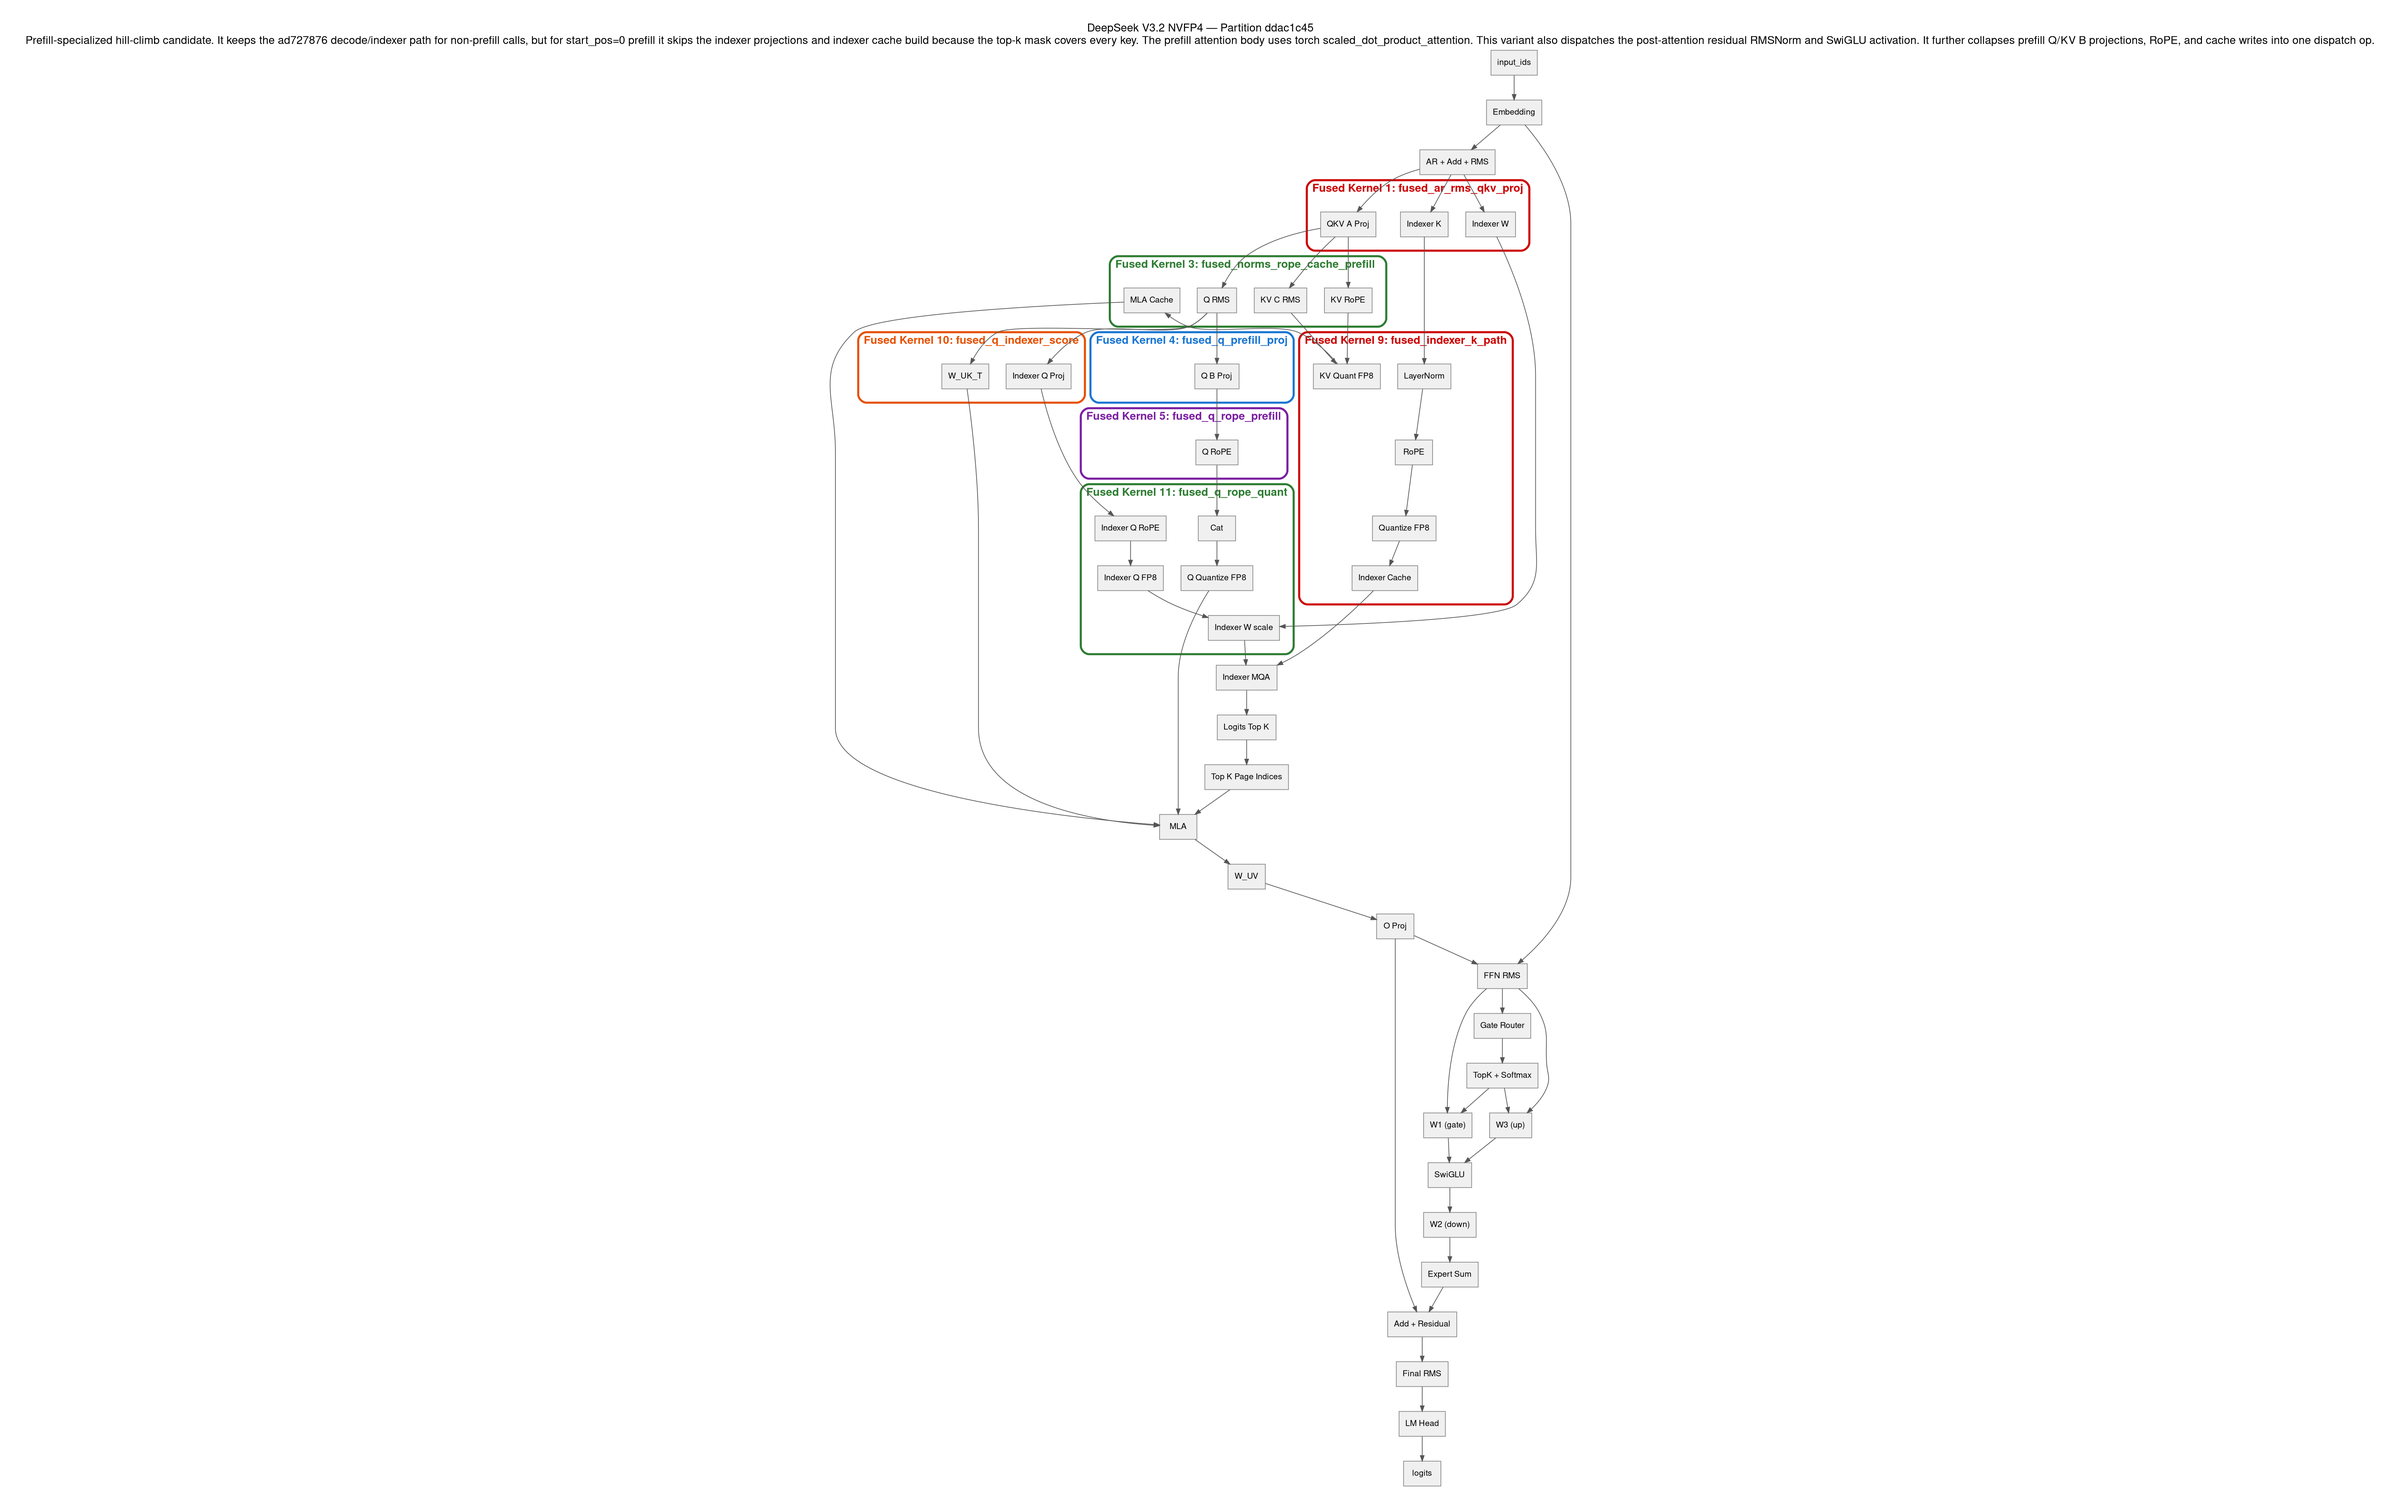
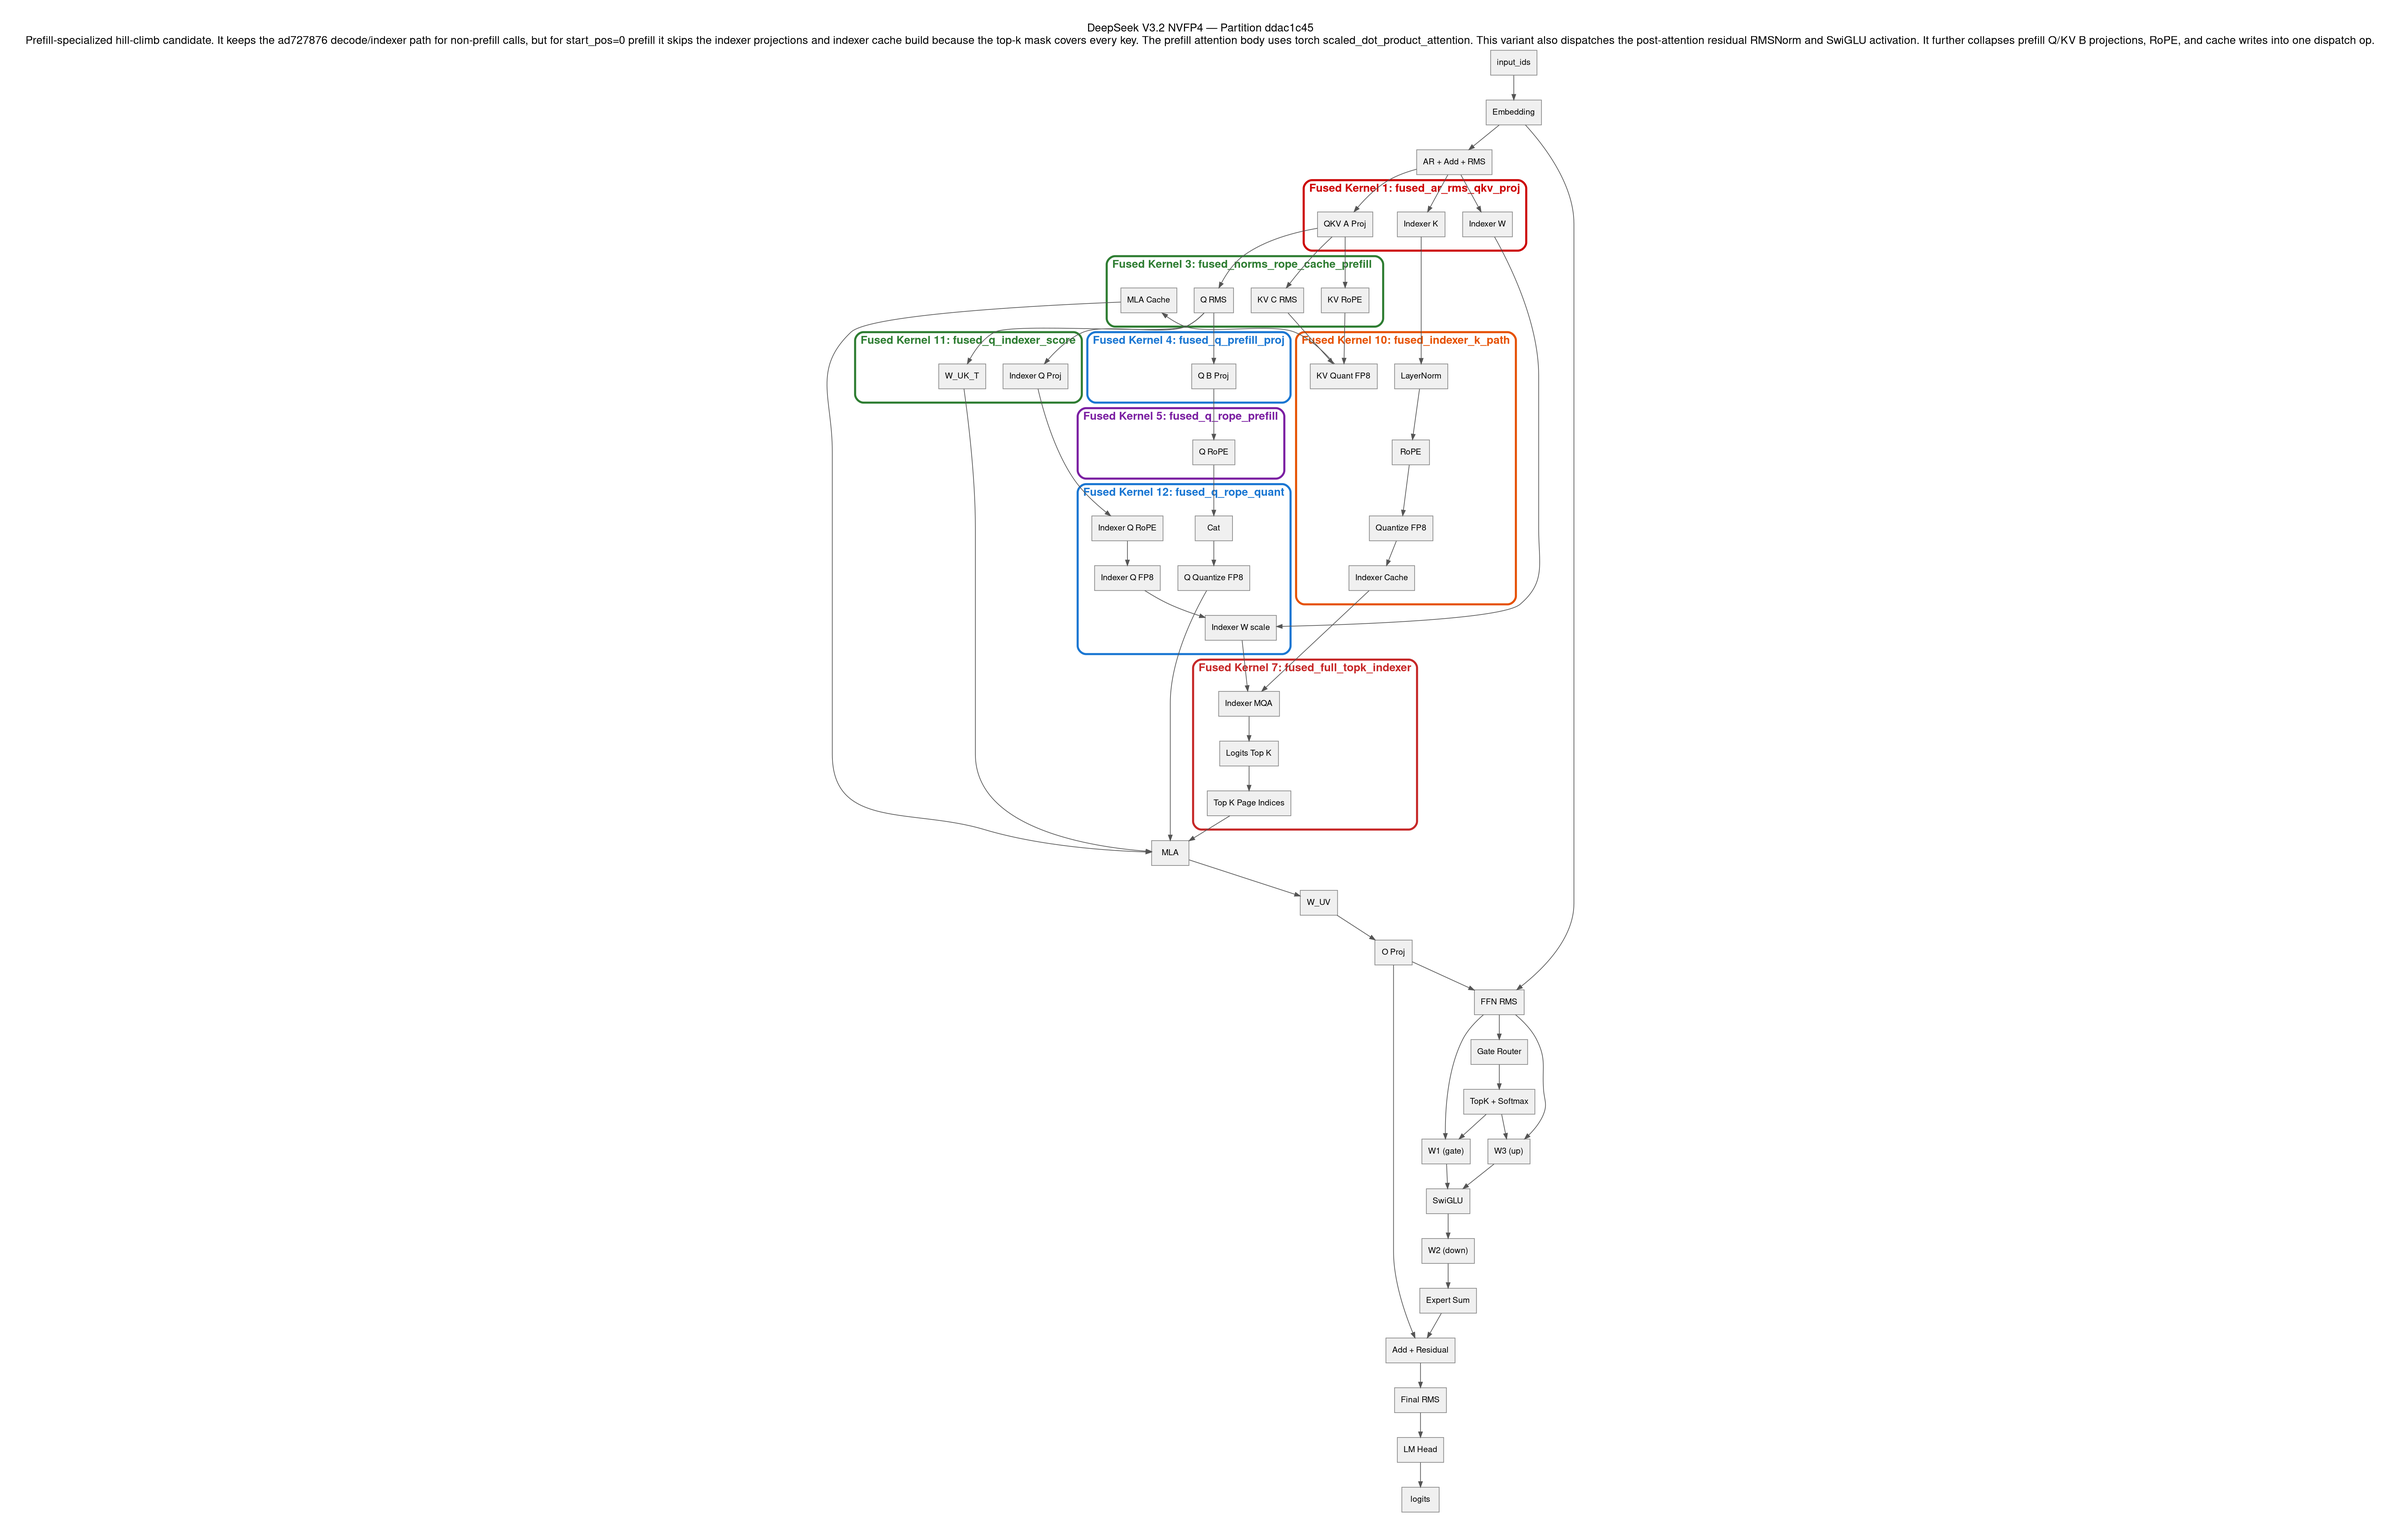
Hill climb nvfp4 full-topk indexer

diff --git a/partitions/dsv3_2_nvfp4/cd91301b/kernels/triton/indexer_full_topk.py b/partitions/dsv3_2_nvfp4/cd91301b/kernels/triton/indexer_full_topk.py
@@ -1,0 +1,81 @@
+from __future__ import annotations
+
+import torch
+
+try:
+    import triton  # noqa: F401
+
+    BACKEND_AVAILABLE = True
+except Exception:
+    BACKEND_AVAILABLE = False
+
+
+def fused_full_topk_indexer(
+    indexer,
+    x: torch.Tensor,
+    qr: torch.Tensor,
+    start_pos: int,
+    freqs_cis: torch.Tensor,
+    mask: torch.Tensor | None,
+    *,
+    fallback,
+) -> torch.Tensor:
+    bsz, seqlen, _ = x.size()
+    end_pos = start_pos + seqlen
+    if start_pos == 0:
+        indexer._racetrack_pending_full_topk = []
+    elif not hasattr(indexer, "_racetrack_pending_full_topk"):
+        indexer._racetrack_pending_full_topk = []
+    if end_pos > indexer.index_topk:
+        _flush_pending_full_topk(indexer)
+        return fallback(indexer, x, qr, start_pos, freqs_cis, mask)
+
+    indexer._racetrack_pending_full_topk.append((start_pos, x, freqs_cis))
+    return torch.arange(
+        end_pos,
+        device=x.device,
+        dtype=torch.long,
+    ).view(1, 1, end_pos).expand(bsz, seqlen, end_pos).contiguous()
+
+
+def _flush_pending_full_topk(indexer) -> None:
+    pending = getattr(indexer, "_racetrack_pending_full_topk", [])
+    if not pending:
+        return
+    for start_pos, x, freqs_cis in pending:
+        _write_indexer_k_cache(indexer, x, start_pos, freqs_cis)
+    pending.clear()
+
+
+def _write_indexer_k_cache(
+    indexer,
+    x: torch.Tensor,
+    start_pos: int,
+    freqs_cis: torch.Tensor,
+) -> None:
+    bsz, seqlen, _ = x.size()
+    end_pos = start_pos + seqlen
+
+    from inference import model as real_model
+
+    k = indexer.wk(x)
+    k = indexer.k_norm(k)
+    k_pe, k_nope = torch.split(
+        k,
+        [indexer.rope_head_dim, indexer.head_dim - indexer.rope_head_dim],
+        dim=-1,
+    )
+    k_pe = real_model.apply_rotary_emb(
+        k_pe.unsqueeze(2),
+        freqs_cis,
+        False,
+    ).squeeze(2)
+    k = torch.cat([k_pe, k_nope], dim=-1)
+    k = real_model.rotate_activation(k)
+    k_fp8, k_scale = real_model.act_quant(
+        k,
+        real_model.block_size,
+        indexer.scale_fmt,
+    )
+    indexer.k_cache[:bsz, start_pos:end_pos] = k_fp8
+    indexer.k_scale_cache[:bsz, start_pos:end_pos] = k_scale

diff --git a/partitions/dsv3_2_nvfp4/ddac1c45/kernels/triton/indexer_full_topk.py b/partitions/dsv3_2_nvfp4/ddac1c45/kernels/triton/indexer_full_topk.py
@@ -1,0 +1,81 @@
+from __future__ import annotations
+
+import torch
+
+try:
+    import triton  # noqa: F401
+
+    BACKEND_AVAILABLE = True
+except Exception:
+    BACKEND_AVAILABLE = False
+
+
+def fused_full_topk_indexer(
+    indexer,
+    x: torch.Tensor,
+    qr: torch.Tensor,
+    start_pos: int,
+    freqs_cis: torch.Tensor,
+    mask: torch.Tensor | None,
+    *,
+    fallback,
+) -> torch.Tensor:
+    bsz, seqlen, _ = x.size()
+    end_pos = start_pos + seqlen
+    if start_pos == 0:
+        indexer._racetrack_pending_full_topk = []
+    elif not hasattr(indexer, "_racetrack_pending_full_topk"):
+        indexer._racetrack_pending_full_topk = []
+    if end_pos > indexer.index_topk:
+        _flush_pending_full_topk(indexer)
+        return fallback(indexer, x, qr, start_pos, freqs_cis, mask)
+
+    indexer._racetrack_pending_full_topk.append((start_pos, x, freqs_cis))
+    return torch.arange(
+        end_pos,
+        device=x.device,
+        dtype=torch.long,
+    ).view(1, 1, end_pos).expand(bsz, seqlen, end_pos).contiguous()
+
+
+def _flush_pending_full_topk(indexer) -> None:
+    pending = getattr(indexer, "_racetrack_pending_full_topk", [])
+    if not pending:
+        return
+    for start_pos, x, freqs_cis in pending:
+        _write_indexer_k_cache(indexer, x, start_pos, freqs_cis)
+    pending.clear()
+
+
+def _write_indexer_k_cache(
+    indexer,
+    x: torch.Tensor,
+    start_pos: int,
+    freqs_cis: torch.Tensor,
+) -> None:
+    bsz, seqlen, _ = x.size()
+    end_pos = start_pos + seqlen
+
+    from inference import model as real_model
+
+    k = indexer.wk(x)
+    k = indexer.k_norm(k)
+    k_pe, k_nope = torch.split(
+        k,
+        [indexer.rope_head_dim, indexer.head_dim - indexer.rope_head_dim],
+        dim=-1,
+    )
+    k_pe = real_model.apply_rotary_emb(
+        k_pe.unsqueeze(2),
+        freqs_cis,
+        False,
+    ).squeeze(2)
+    k = torch.cat([k_pe, k_nope], dim=-1)
+    k = real_model.rotate_activation(k)
+    k_fp8, k_scale = real_model.act_quant(
+        k,
+        real_model.block_size,
+        indexer.scale_fmt,
+    )
+    indexer.k_cache[:bsz, start_pos:end_pos] = k_fp8
+    indexer.k_scale_cache[:bsz, start_pos:end_pos] = k_scale

diff --git a/partitions/dsv3_2_nvfp4/f1bdaa6e/kernels/triton/indexer_full_topk.py b/partitions/dsv3_2_nvfp4/f1bdaa6e/kernels/triton/indexer_full_topk.py
@@ -1,0 +1,81 @@
+from __future__ import annotations
+
+import torch
+
+try:
+    import triton  # noqa: F401
+
+    BACKEND_AVAILABLE = True
+except Exception:
+    BACKEND_AVAILABLE = False
+
+
+def fused_full_topk_indexer(
+    indexer,
+    x: torch.Tensor,
+    qr: torch.Tensor,
+    start_pos: int,
+    freqs_cis: torch.Tensor,
+    mask: torch.Tensor | None,
+    *,
+    fallback,
+) -> torch.Tensor:
+    bsz, seqlen, _ = x.size()
+    end_pos = start_pos + seqlen
+    if start_pos == 0:
+        indexer._racetrack_pending_full_topk = []
+    elif not hasattr(indexer, "_racetrack_pending_full_topk"):
+        indexer._racetrack_pending_full_topk = []
+    if end_pos > indexer.index_topk:
+        _flush_pending_full_topk(indexer)
+        return fallback(indexer, x, qr, start_pos, freqs_cis, mask)
+
+    indexer._racetrack_pending_full_topk.append((start_pos, x, freqs_cis))
+    return torch.arange(
+        end_pos,
+        device=x.device,
+        dtype=torch.long,
+    ).view(1, 1, end_pos).expand(bsz, seqlen, end_pos).contiguous()
+
+
+def _flush_pending_full_topk(indexer) -> None:
+    pending = getattr(indexer, "_racetrack_pending_full_topk", [])
+    if not pending:
+        return
+    for start_pos, x, freqs_cis in pending:
+        _write_indexer_k_cache(indexer, x, start_pos, freqs_cis)
+    pending.clear()
+
+
+def _write_indexer_k_cache(
+    indexer,
+    x: torch.Tensor,
+    start_pos: int,
+    freqs_cis: torch.Tensor,
+) -> None:
+    bsz, seqlen, _ = x.size()
+    end_pos = start_pos + seqlen
+
+    from inference import model as real_model
+
+    k = indexer.wk(x)
+    k = indexer.k_norm(k)
+    k_pe, k_nope = torch.split(
+        k,
+        [indexer.rope_head_dim, indexer.head_dim - indexer.rope_head_dim],
+        dim=-1,
+    )
+    k_pe = real_model.apply_rotary_emb(
+        k_pe.unsqueeze(2),
+        freqs_cis,
+        False,
+    ).squeeze(2)
+    k = torch.cat([k_pe, k_nope], dim=-1)
+    k = real_model.rotate_activation(k)
+    k_fp8, k_scale = real_model.act_quant(
+        k,
+        real_model.block_size,
+        indexer.scale_fmt,
+    )
+    indexer.k_cache[:bsz, start_pos:end_pos] = k_fp8
+    indexer.k_scale_cache[:bsz, start_pos:end_pos] = k_scale

diff --git a/tests/test_gsm8k_real_kernels.py b/tests/test_gsm8k_real_kernels.py
@@ -183,6 +183,21 @@ def test_dsv3_2_real_rows_skip_helion_until_full_model_configs_exist() -> None:
     )
 
 
+def test_dsv3_2_nvfp4_real_rows_include_full_topk_indexer() -> None:
+    rows = discover_real_kernel_rows(
+        partition_model="dsv3_2_nvfp4",
+        partition_filter="cd91301b",
+        backend_filter="triton",
+    )
+
+    row = next(row for row in rows if row.partition == "cd91301b")
+    assert row.ops == (
+        "fused_full_topk_indexer",
+        "fused_residual_norm",
+        "fused_swiglu",
+    )
+
+
 def test_dsv3_2_best_ignores_cached_disabled_backend(tmp_path) -> None:
     triton_dir = tmp_path / "kernels" / "triton"
     helion_dir = tmp_path / "kernels" / "helion"

diff --git a/partitions/dsv3_2_nvfp4/cd91301b/model.py b/partitions/dsv3_2_nvfp4/cd91301b/model.py
@@ -35,6 +35,7 @@ FUSED_OP_GRAPH = {
     "fused_q_prefill_proj": ["q_b_proj"],
     "fused_q_rope_prefill": ["q_rope"],
     "fused_prefill_qkv_b_rope_cache": ["q_rms", "q_b_proj", "q_rope", "kv_c_rms", "kv_b_proj", "kv_rope", "mla_cache"],
+    "fused_full_topk_indexer": ["indexer_mqa", "logits_topk", "topk_page_idx"],
     "fused_residual_norm": ["attn_residual_add", "ffn_rms"],
     "fused_swiglu": ["ffn_silu", "ffn_gate_up_mul"],
     "fused_indexer_k_path": ["kv_c_rms", "kv_rope", "kv_quant_fp8", "mla_cache", "q_rms", "indexer_ln", "indexer_rope", "indexer_quant_fp8", "indexer_cache"],

diff --git a/partitions/dsv3_2_nvfp4/ddac1c45/model.py b/partitions/dsv3_2_nvfp4/ddac1c45/model.py
@@ -33,6 +33,7 @@ FUSED_OP_GRAPH = {
     "fused_q_prefill_proj": ["q_b_proj"],
     "fused_q_rope_prefill": ["q_rope"],
     "fused_prefill_qkv_b_rope_cache": ["q_rms", "q_b_proj", "q_rope", "kv_c_rms", "kv_b_proj", "kv_rope", "mla_cache"],
+    "fused_full_topk_indexer": ["indexer_mqa", "logits_topk", "topk_page_idx"],
     "fused_residual_norm": ["attn_residual_add", "ffn_rms"],
     "fused_swiglu": ["ffn_silu", "ffn_gate_up_mul"],
     "fused_indexer_k_path": ["kv_c_rms", "kv_rope", "kv_quant_fp8", "mla_cache", "q_rms", "indexer_ln", "indexer_rope", "indexer_quant_fp8", "indexer_cache"],

diff --git a/partitions/dsv3_2_nvfp4/f1bdaa6e/model.py b/partitions/dsv3_2_nvfp4/f1bdaa6e/model.py
@@ -30,6 +30,7 @@ FUSED_OP_GRAPH = {
     "fused_norms_rope_cache_prefill": ["q_rms", "kv_c_rms", "kv_rope", "mla_cache"],
     "fused_q_prefill_proj": ["q_b_proj"],
     "fused_q_rope_prefill": ["q_rope"],
+    "fused_full_topk_indexer": ["indexer_mqa", "logits_topk", "topk_page_idx"],
     "fused_residual_norm": ["attn_residual_add", "ffn_rms"],
     "fused_swiglu": ["ffn_silu", "ffn_gate_up_mul"],
     "fused_indexer_k_path": ["kv_c_rms", "kv_rope", "kv_quant_fp8", "mla_cache", "q_rms", "indexer_ln", "indexer_rope", "indexer_quant_fp8", "indexer_cache"],

diff --git a/benchmarks/gsm8k/results/dsv3_2_nvfp4/8xh100.md b/benchmarks/gsm8k/results/dsv3_2_nvfp4/8xh100.md
@@ -8,31 +8,31 @@
 **PyTorch**: 2.13.0a0+git0a0fcd7
 **Samples**: 1
 **Max new tokens**: 4096
-**Date**: 2026-05-15T15:07:54.539753+00:00
+**Date**: 2026-05-15T19:52:45.898580+00:00
 **Validation**: extracted numerical answers are compared with `baseline/torch`; `max diff` is the maximum absolute extracted-answer difference.
 
 ## Winner
 
-**cd91301b/triton** (1.205x vs baseline)
-Aggregate: 44529.6ms
+**ddac1c45/triton** (1.489x vs baseline)
+Aggregate: 35506.2ms
 
 ## Leaderboard
 
 | # | partition | backend | total (ms) | vs baseline | validation | max diff |
 |---|---|---|---|---|---|---|
-| 1 | cd91301b | triton | 44529.6 | 1.205x | pass | 0.000e+00 |
-| 2 | ddac1c45 | triton | 44539.5 | 1.205x | pass | 0.000e+00 |
-| 3 | f1bdaa6e | triton | 44731.5 | 1.199x | pass | 0.000e+00 |
-| 4 | cd91301b | best (fused_residual_norm=triton, fused_swiglu=triton) | 44990.5 | 1.192x | pass | 0.000e+00 |
-| 5 | ddac1c45 | best (fused_residual_norm=triton, fused_swiglu=triton) | 44997.8 | 1.192x | pass | 0.000e+00 |
-| 6 | f1bdaa6e | best (fused_residual_norm=triton, fused_swiglu=triton) | 45012.8 | 1.192x | pass | 0.000e+00 |
-| 7 | ddac1c45 | cutedsl | 46641.9 | 1.150x | pass | 0.000e+00 |
-| 8 | f1bdaa6e | cutedsl | 46711.3 | 1.149x | pass | 0.000e+00 |
-| 9 | f1bdaa6e | helion | 46714.2 | 1.148x | pass | 0.000e+00 |
-| 10 | cd91301b | cutedsl | 46728.4 | 1.148x | pass | 0.000e+00 |
-| 11 | ddac1c45 | helion | 46894.7 | 1.144x | pass | 0.000e+00 |
-| 12 | cd91301b | helion | 47018.9 | 1.141x | pass | 0.000e+00 |
-| 13 | baseline | torch | 53649.0 | 1.000x | pass | 0.000e+00 |
+| 1 | ddac1c45 | triton | 35506.2 | 1.489x | pass | 0.000e+00 |
+| 2 | cd91301b | triton | 35533.3 | 1.488x | pass | 0.000e+00 |
+| 3 | cd91301b | best (fused_full_topk_indexer=triton, fused_residual_norm=triton, fused_swiglu=triton) | 35536.9 | 1.488x | pass | 0.000e+00 |
+| 4 | f1bdaa6e | best (fused_full_topk_indexer=triton, fused_residual_norm=triton, fused_swiglu=triton) | 35903.6 | 1.473x | pass | 0.000e+00 |
+| 5 | ddac1c45 | best (fused_full_topk_indexer=triton, fused_residual_norm=triton, fused_swiglu=triton) | 36843.7 | 1.435x | pass | 0.000e+00 |
+| 6 | f1bdaa6e | triton | 37042.6 | 1.427x | pass | 0.000e+00 |
+| 7 | ddac1c45 | helion | 46512.3 | 1.137x | pass | 0.000e+00 |
+| 8 | f1bdaa6e | cutedsl | 46523.6 | 1.137x | pass | 0.000e+00 |
+| 9 | cd91301b | helion | 46548.5 | 1.136x | pass | 0.000e+00 |
+| 10 | ddac1c45 | cutedsl | 46631.4 | 1.134x | pass | 0.000e+00 |
+| 11 | f1bdaa6e | helion | 46763.8 | 1.131x | pass | 0.000e+00 |
+| 12 | cd91301b | cutedsl | 47044.5 | 1.124x | pass | 0.000e+00 |
+| 13 | baseline | torch | 52875.1 | 1.000x | pass | 0.000e+00 |
 
 ## Cases
 
@@ -40,4 +40,4 @@ Aggregate: 44529.6ms
 
 ## Baseline reference
 
-- gsm8k: 53649.0ms
+- gsm8k: 52875.1ms
